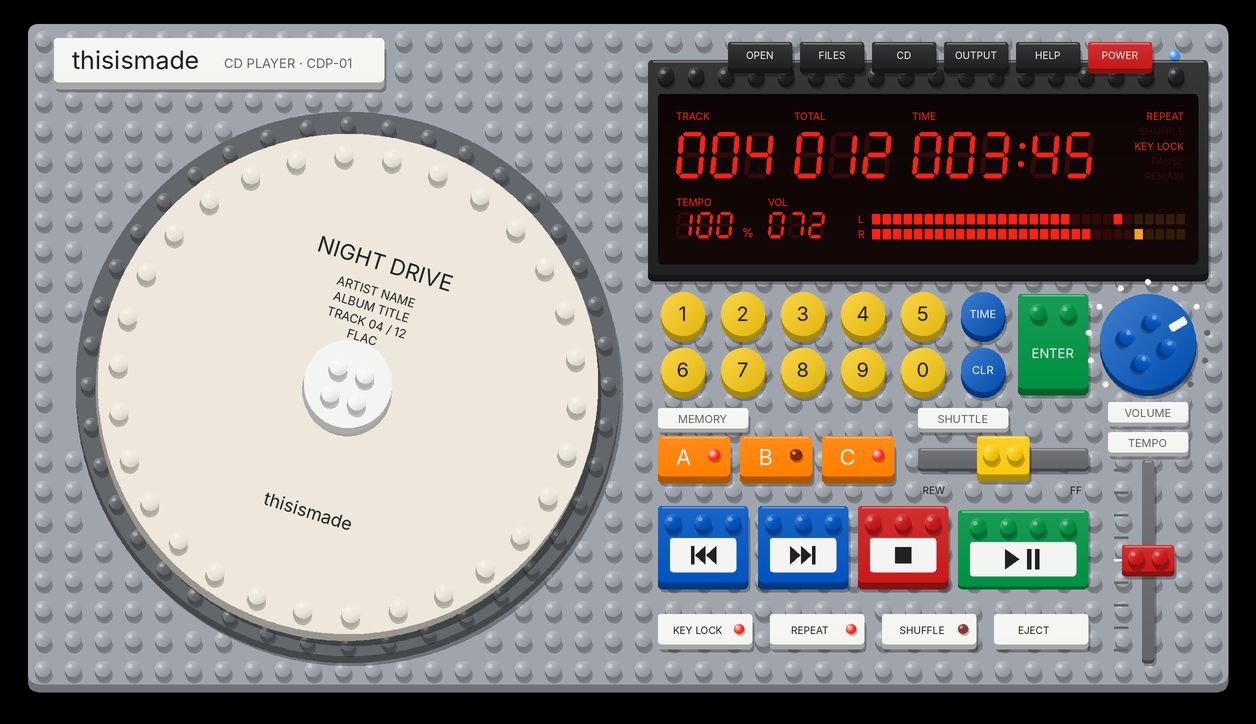
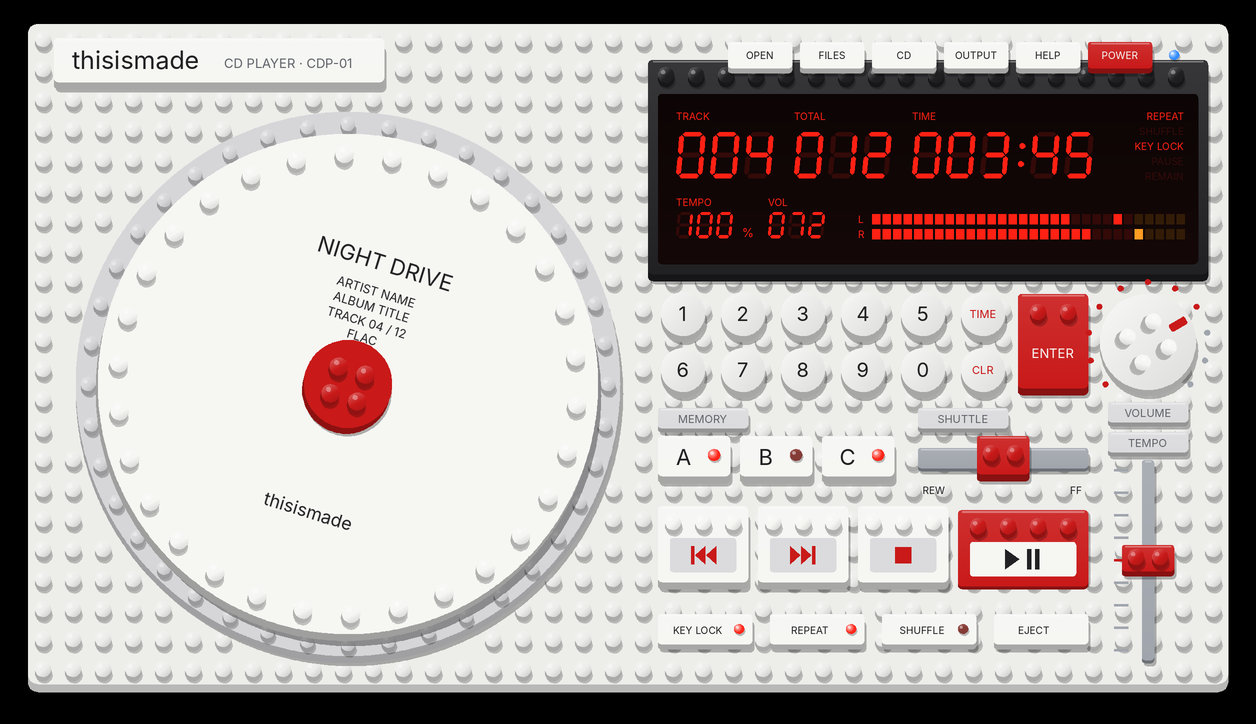
Baustein-Design in Weiß mit roten Anzeigen und Akzenten
Claude-Session: https://claude.ai/code/session_01SsXMRv7SwooBpQzsssY7KT

diff --git a/tmplayer/face_brick.py b/tmplayer/face_brick.py
@@ -1,4 +1,4 @@
-"""Gerätefront im Klemmbaustein-Stil (Grundplatte, Steine, Fliesen, Noppen).
+"""Gerätefront im Klemmbaustein-Stil: weiße Steine, rote Anzeigen und Akzente.
 
 Gleiches Layout und gleiche Klickflächen wie face.py – nur anders gezeichnet.
 """
@@ -20,7 +20,10 @@ YELLOW = (0.98, 0.79, 0.05)
 BLUE = (0.00, 0.33, 0.75)
 GREEN = (0.00, 0.57, 0.26)
 ORANGE = (1.00, 0.50, 0.00)
-WHITE = (0.96, 0.96, 0.95)
+WHITE = (0.965, 0.965, 0.955)
+BASE = (0.93, 0.93, 0.92)          # Grundplatte
+WELL = (0.84, 0.84, 0.85)          # runde Platte unter der Disc
+LABEL = (0.86, 0.86, 0.87)         # Beschriftungsfliesen
 BLACK = (0.13, 0.13, 0.14)
 DARK_GREY = (0.39, 0.40, 0.42)
 LIGHT_GREY = (0.63, 0.65, 0.68)
@@ -152,17 +155,17 @@ def draw_static(cr):
     _rgb(cr, (0, 0, 0), 0.30)
     cr.fill()
     _rrect(cr, 0, 0, DEV_W, DEV_H + 8, 10)
-    _rgb(cr, _shade(LIGHT_GREY, 0.70))
+    _rgb(cr, _shade(BASE, 0.78))
     cr.fill()
     _rrect(cr, 0, 0, DEV_W, DEV_H, 10)
-    _rgb(cr, LIGHT_GREY)
+    _rgb(cr, BASE)
     cr.fill()
     for j in range(int(DEV_H // PITCH)):
         for i in range(int(DEV_W // PITCH)):
             cx, cy = PITCH / 2 + i * PITCH, PITCH / 2 + j * PITCH
             if (cx - DISC_C[0]) ** 2 + (cy - DISC_C[1]) ** 2 < (WELL_R + 8) ** 2:
                 continue
-            stud(cr, cx, cy, LIGHT_GREY, 8.0)
+            stud(cr, cx, cy, BASE, 8.0)
 
     # Namensschild
     block(cr, 26, 14, 330, 44, WHITE)
@@ -175,15 +178,15 @@ def draw_static(cr):
     _rgb(cr, (0, 0, 0), 0.30)
     cr.fill()
     _circle(cr, cx, cy + 7, WELL_R)
-    _rgb(cr, _shade(DARK_GREY, 0.7))
+    _rgb(cr, _shade(WELL, 0.75))
     cr.fill()
     _circle(cr, cx, cy, WELL_R)
-    _rgb(cr, DARK_GREY)
+    _rgb(cr, WELL)
     cr.fill()
     n = 40
     for i in range(n):
         a = 2 * math.pi * i / n
-        stud(cr, cx + math.cos(a) * (WELL_R - 12), cy + math.sin(a) * (WELL_R - 12), DARK_GREY, 7.0)
+        stud(cr, cx + math.cos(a) * (WELL_R - 12), cy + math.sin(a) * (WELL_R - 12), WELL, 7.0)
 
     # Display-Rahmen (schwarzer Stein mit Noppenreihe)
     x, y, w, h = DISPLAY
@@ -201,7 +204,7 @@ def draw_static(cr):
     for t, tx, ty, tw in (("VOLUME", KNOB_C[0] - 40, KNOB_C[1] + KNOB_R + 12, 80),
                           ("MEMORY", 630, MEM_Y - 28, 90), ("SHUTTLE", SHUTTLE[0], MEM_Y - 28, 90),
                           ("TEMPO", FADER_X - 40, FADER_Y0 - 38, 80)):
-        block(cr, tx, ty, tw, 20, WHITE, r=3, side=4)
+        block(cr, tx, ty, tw, 20, LABEL, r=3, side=4)
         _text(cr, t, tx + tw / 2, ty + 15, 11, DARK_GREY, bold=True)
 
 
@@ -211,9 +214,9 @@ def draw_dynamic(cr, st):
 
     # Tasten oben (schwarze Fliesen, Power rot)
     for rid, t, x in TOP_BTNS:
-        col = RED if rid == "power" else BLACK
+        col = RED if rid == "power" else WHITE
         oy = block(cr, x, TOP_Y, TOP_W, TOP_H, col, rid in P, r=3, side=5)
-        _text(cr, t, x + TOP_W / 2, TOP_Y + oy + 17, 10, WHITE, bold=True)
+        _text(cr, t, x + TOP_W / 2, TOP_Y + oy + 17, 10, _ink(col), bold=True)
     trans_led(cr, 1146, 31, st.bt_led and on, (0.2, 0.55, 1.0), 5)
 
     # Disc
@@ -225,9 +228,9 @@ def draw_dynamic(cr, st):
         cr.rotate(st.disc_angle)
         _hub(cr)
         cr.restore()
-        _text(cr, "NO DISC", DISC_C[0], DISC_C[1] + 82, 15, WHITE, bold=True)
+        _text(cr, "NO DISC", DISC_C[0], DISC_C[1] + 82, 15, BLACK, bold=True)
         _text(cr, "OPEN = Ordner · FILES = Dateien · oder hierher ziehen",
-              DISC_C[0], DISC_C[1] + 104, 11, _lighten(DARK_GREY, 0.6))
+              DISC_C[0], DISC_C[1] + 104, 11, DARK_GREY)
 
     # Display-Inhalt (gleiche Anzeige wie klassisch)
     _display(cr, st)
@@ -235,16 +238,17 @@ def draw_dynamic(cr, st):
     # Ziffernblock: runde Fliesen
     for lab, x, y in KEYS:
         kid = "key_" + lab
-        col = BLUE if lab in "TC" else YELLOW
+        col = WHITE
         r = min(KEY_W, KEY_H) / 2
         cx, cy = x + KEY_W / 2, y + KEY_H / 2 - 2
         oy = round_tile(cr, cx, cy, r, col, kid in P)
         text = {"T": "TIME", "C": "CLR"}.get(lab, lab)
-        _text(cr, text, cx, cy + oy + (7 if len(text) == 1 else 4), 20 if len(text) == 1 else 11, _ink(col), bold=True)
+        _text(cr, text, cx, cy + oy + (7 if len(text) == 1 else 4), 20 if len(text) == 1 else 11,
+              RED if lab in "TC" else BLACK, bold=True)
     x, y, w, h = ENTER
-    oy = block(cr, x, y, w, h - 6, GREEN, "enter" in P, studs=False)
-    stud(cr, x + w / 2 - 15, y + oy + 18, GREEN, 8)
-    stud(cr, x + w / 2 + 15, y + oy + 18, GREEN, 8)
+    oy = block(cr, x, y, w, h - 6, RED, "enter" in P, studs=False)
+    stud(cr, x + w / 2 - 15, y + oy + 18, RED, 8)
+    stud(cr, x + w / 2 + 15, y + oy + 18, RED, 8)
     _text(cr, "ENTER", x + w / 2, y + oy + 64, 13, WHITE, bold=True)
 
     # Lautstärke: runde blaue Platte mit Noppen, dreht sich mit dem Wert
@@ -252,34 +256,34 @@ def draw_dynamic(cr, st):
 
     # Memory A/B/C: orange Steine mit Leuchte
     for i, (rid, t, x) in enumerate(MEM):
-        oy = block(cr, x, MEM_Y, MEM_W, MEM_H - 4, ORANGE, rid in P)
-        _text(cr, t, x + 26, MEM_Y + oy + 29, 22, WHITE, bold=True)
+        oy = block(cr, x, MEM_Y, MEM_W, MEM_H - 4, WHITE, rid in P)
+        _text(cr, t, x + 26, MEM_Y + oy + 29, 22, BLACK, bold=True)
         trans_led(cr, x + MEM_W - 16, MEM_Y + oy + 19, st.cue_set[i] and on)
 
     # Shuttle: Schiene + gelber 1x2-Stein
     x, y, w, h = SHUTTLE
-    block(cr, x, y + 12, w, h - 24, DARK_GREY, r=3, side=3)
+    block(cr, x, y + 12, w, h - 24, LIGHT_GREY, r=3, side=3)
     _text(cr, "REW", x + 16, y + h + 14, 10, BLACK, bold=True)
     _text(cr, "FF", x + w - 12, y + h + 14, 10, BLACK, bold=True)
     jx = x + w / 2 + st.jog * JOG_TRAVEL
-    block(cr, jx - 26, y, 52, h - 6, YELLOW, "jog" in P, r=3, studs=False)
-    stud(cr, jx - 12, y + 17, YELLOW, 8)
-    stud(cr, jx + 12, y + 17, YELLOW, 8)
+    block(cr, jx - 26, y, 52, h - 6, RED, "jog" in P, r=3, studs=False)
+    stud(cr, jx - 12, y + 17, RED, 8)
+    stud(cr, jx + 12, y + 17, RED, 8)
 
     # Tempo-Fader: Schiene + roter 1x2-Stein
     _fader(cr, st.varispeed_norm)
 
     # Laufwerkstasten: große Steine mit aufgedrucktem Symbol
-    colors = {"prev": BLUE, "next": BLUE, "stop": RED, "play": GREEN}
+    colors = {"prev": WHITE, "next": WHITE, "stop": WHITE, "play": RED}
     for rid, x, w in TRANSPORT:
         col = colors[rid]
         oy = block(cr, x, TR_Y, w, TR_H - 6, col, rid in P)
         for k in range(int(w // PITCH)):
             stud(cr, x + (w - (int(w // PITCH) - 1) * PITCH) / 2 + k * PITCH, TR_Y + oy + 16, col, 8)
         _rrect(cr, x + 12, TR_Y + oy + 32, w - 24, 34, 3)
-        _rgb(cr, WHITE)
+        _rgb(cr, LABEL if col == WHITE else WHITE)
         cr.fill()
-        _icon(cr, rid, x + w / 2, TR_Y + oy + 49, BLACK)
+        _icon(cr, rid, x + w / 2, TR_Y + oy + 49, RED if col == WHITE else BLACK)
 
     # kleine Tasten: weiße Fliesen mit Leuchte
     leds = {"vs_display": st.stretch, "repeat": st.repeat > 0, "shuffle": st.shuffle, "eject": None}
@@ -301,13 +305,13 @@ def _hub(cr):
     _rgb(cr, (0, 0, 0), 0.3)
     cr.fill()
     _circle(cr, 0, 6, 44)
-    _rgb(cr, _shade(WHITE, 0.7))
+    _rgb(cr, _shade(RED, 0.7))
     cr.fill()
     _circle(cr, 0, 0, 44)
-    _rgb(cr, WHITE)
+    _rgb(cr, RED)
     cr.fill()
     for dx, dy in ((-14, -14), (14, -14), (-14, 14), (14, 14)):
-        stud(cr, dx, dy, WHITE, 9)
+        stud(cr, dx, dy, RED, 9)
 
 
 def _disc(cr, st):
@@ -318,7 +322,7 @@ def _disc(cr, st):
     cr.save()
     cr.translate(cx, cy)
     cr.rotate(st.disc_angle)
-    col = st.disc_color
+    col = WHITE
     # Flanke der runden Platte
     _circle(cr, 0, 7, DISC_R)
     _rgb(cr, _shade(col, 0.65))
@@ -363,16 +367,16 @@ def _knob(cr, value):
         t = math.radians(225 - 27 * i)
         px, py = cx + math.cos(t) * (KNOB_R + 12), cy - math.sin(t) * (KNOB_R + 12)
         _circle(cr, px, py, 3)
-        _rgb(cr, WHITE if i * 0.1 <= value + 1e-6 else DARK_GREY)
+        _rgb(cr, RED if i * 0.1 <= value + 1e-6 else LIGHT_GREY)
         cr.fill()
-    round_tile(cr, cx, cy, KNOB_R, BLUE)
+    round_tile(cr, cx, cy, KNOB_R, WHITE)
     cr.save()
     cr.translate(cx, cy)
     cr.rotate(-a + math.pi / 2)
     for dx, dy in ((-15, -15), (15, -15), (-15, 15), (15, 15)):
-        stud(cr, dx, dy, BLUE, 8)
+        stud(cr, dx, dy, WHITE, 8)
     _rrect(cr, -4, -KNOB_R + 4, 8, 18, 2)
-    _rgb(cr, WHITE)
+    _rgb(cr, RED)
     cr.fill()
     cr.restore()
 
@@ -382,9 +386,9 @@ def _fader(cr, value):
     for i in range(9):
         y = FADER_Y1 - i * (FADER_Y1 - FADER_Y0) / 8
         cr.rectangle(x - 34, y - 1, 14 if i != 4 else 18, 2)
-        _rgb(cr, WHITE if i == 4 else DARK_GREY)
+        _rgb(cr, RED if i == 4 else LIGHT_GREY)
         cr.fill()
-    block(cr, x - 6, FADER_Y0 - 10, 12, FADER_Y1 - FADER_Y0 + 20, DARK_GREY, r=3, side=3)
+    block(cr, x - 6, FADER_Y0 - 10, 12, FADER_Y1 - FADER_Y0 + 20, LIGHT_GREY, r=3, side=3)
     cy = FADER_Y1 - max(0.0, min(1.0, value)) * (FADER_Y1 - FADER_Y0)
     block(cr, x - 26, cy - 15, 52, 26, RED, r=3, side=5)
     stud(cr, x - 12, cy - 3, RED, 8)
